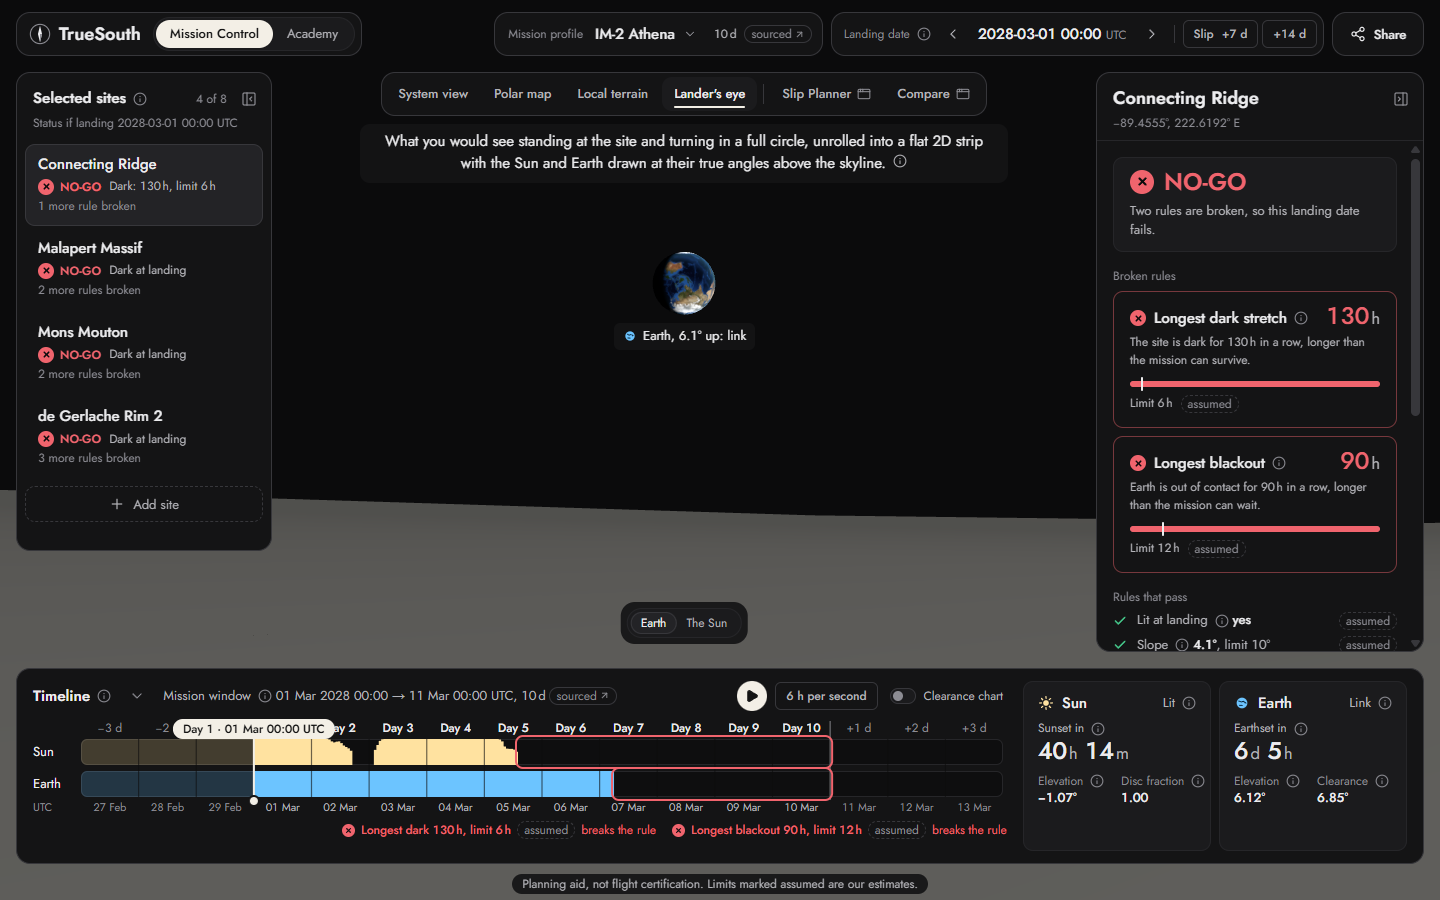
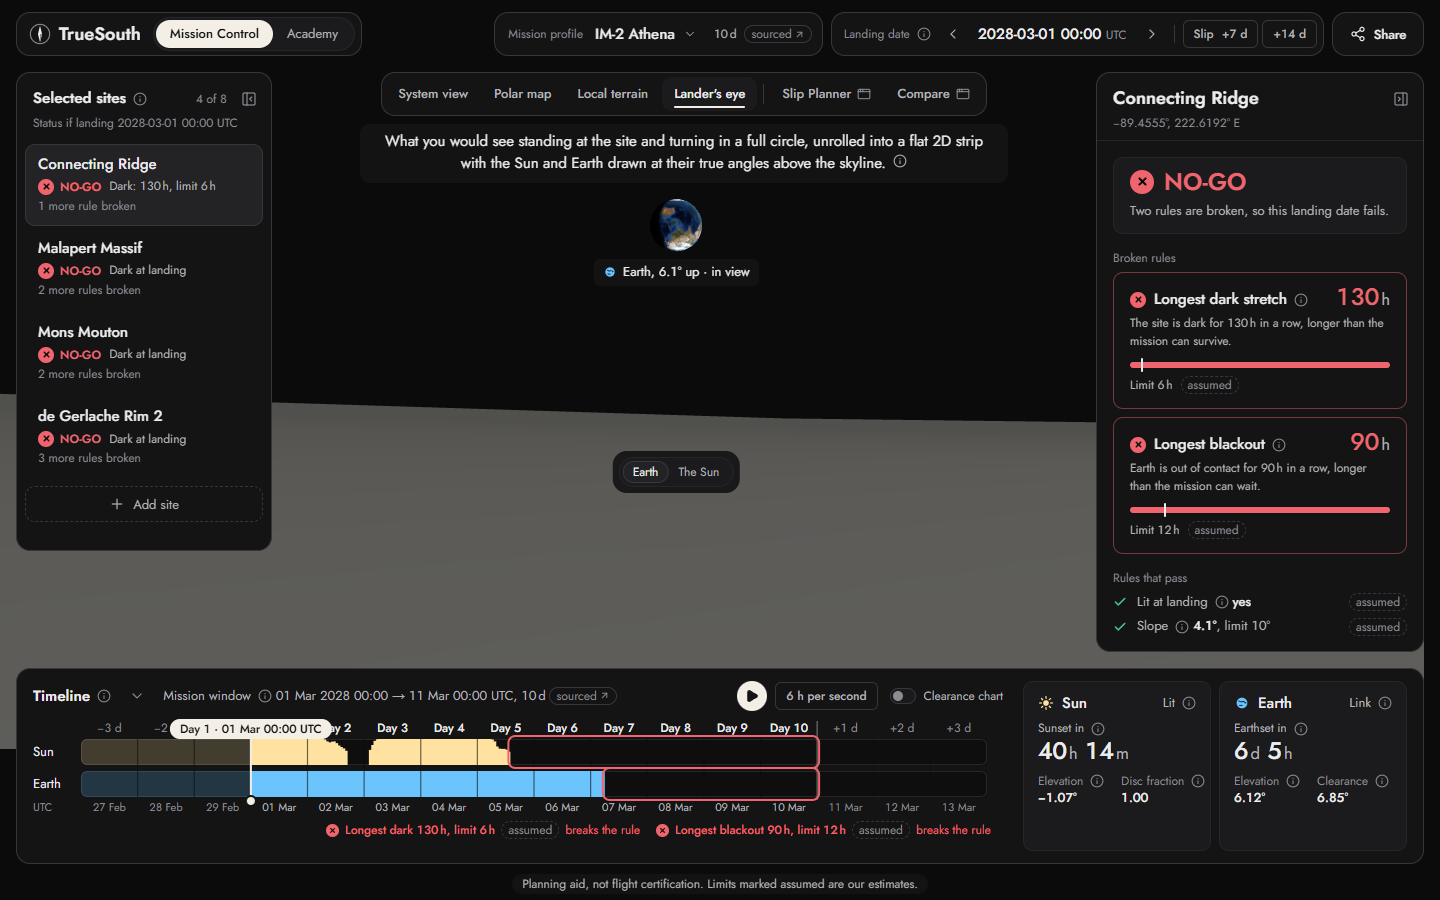
T1 review: DEVLOG note and the two screenshots that changed

diff --git a/DEVLOG.md b/DEVLOG.md
@@ -752,6 +752,16 @@ Every one of the 65 proposed keys has a definition, source arrays, availability,
     checks like the ones above.
   - Flat mode (the shell's `mode: "flat"`): the scene draws nothing, unmounts its Canvas and
     reports `flatViews: []`, so the shell's still picture stands for every view.
+  - Review fixes (Gemini review of #75): the System view can pitch away from the pole (a step
+    toward it stops at the limit and never flips); a flight that changes the camera view is
+    locked against drags, scrolls and keys, another pick re-targets it, and the Polar map's
+    lighting blend lives in the rig and ends at 0 or 1; failed loads say so on a plate and
+    never draw a made-up Sun, Earth or distance (`plates.ts`); the apron is lowered only
+    under the patch; Lander's eye labels read "Sun, 1.1° below level · in view" from the
+    series' disc fraction and clearance; replaced Moon textures are released; the 8K seam
+    no longer wraps at 180°; pins are named with their status. Checked with rig, plate,
+    ground and label tests, and in the browser with hardware WebGL (the failure states were
+    forced through the app's own data store).
   - three.js r187 prints a `THREE.Clock` deprecation warning from inside React Three Fiber.
 
 #### 2026-11-13 · T0 · Coordinate helpers and a shared Canvas mount
